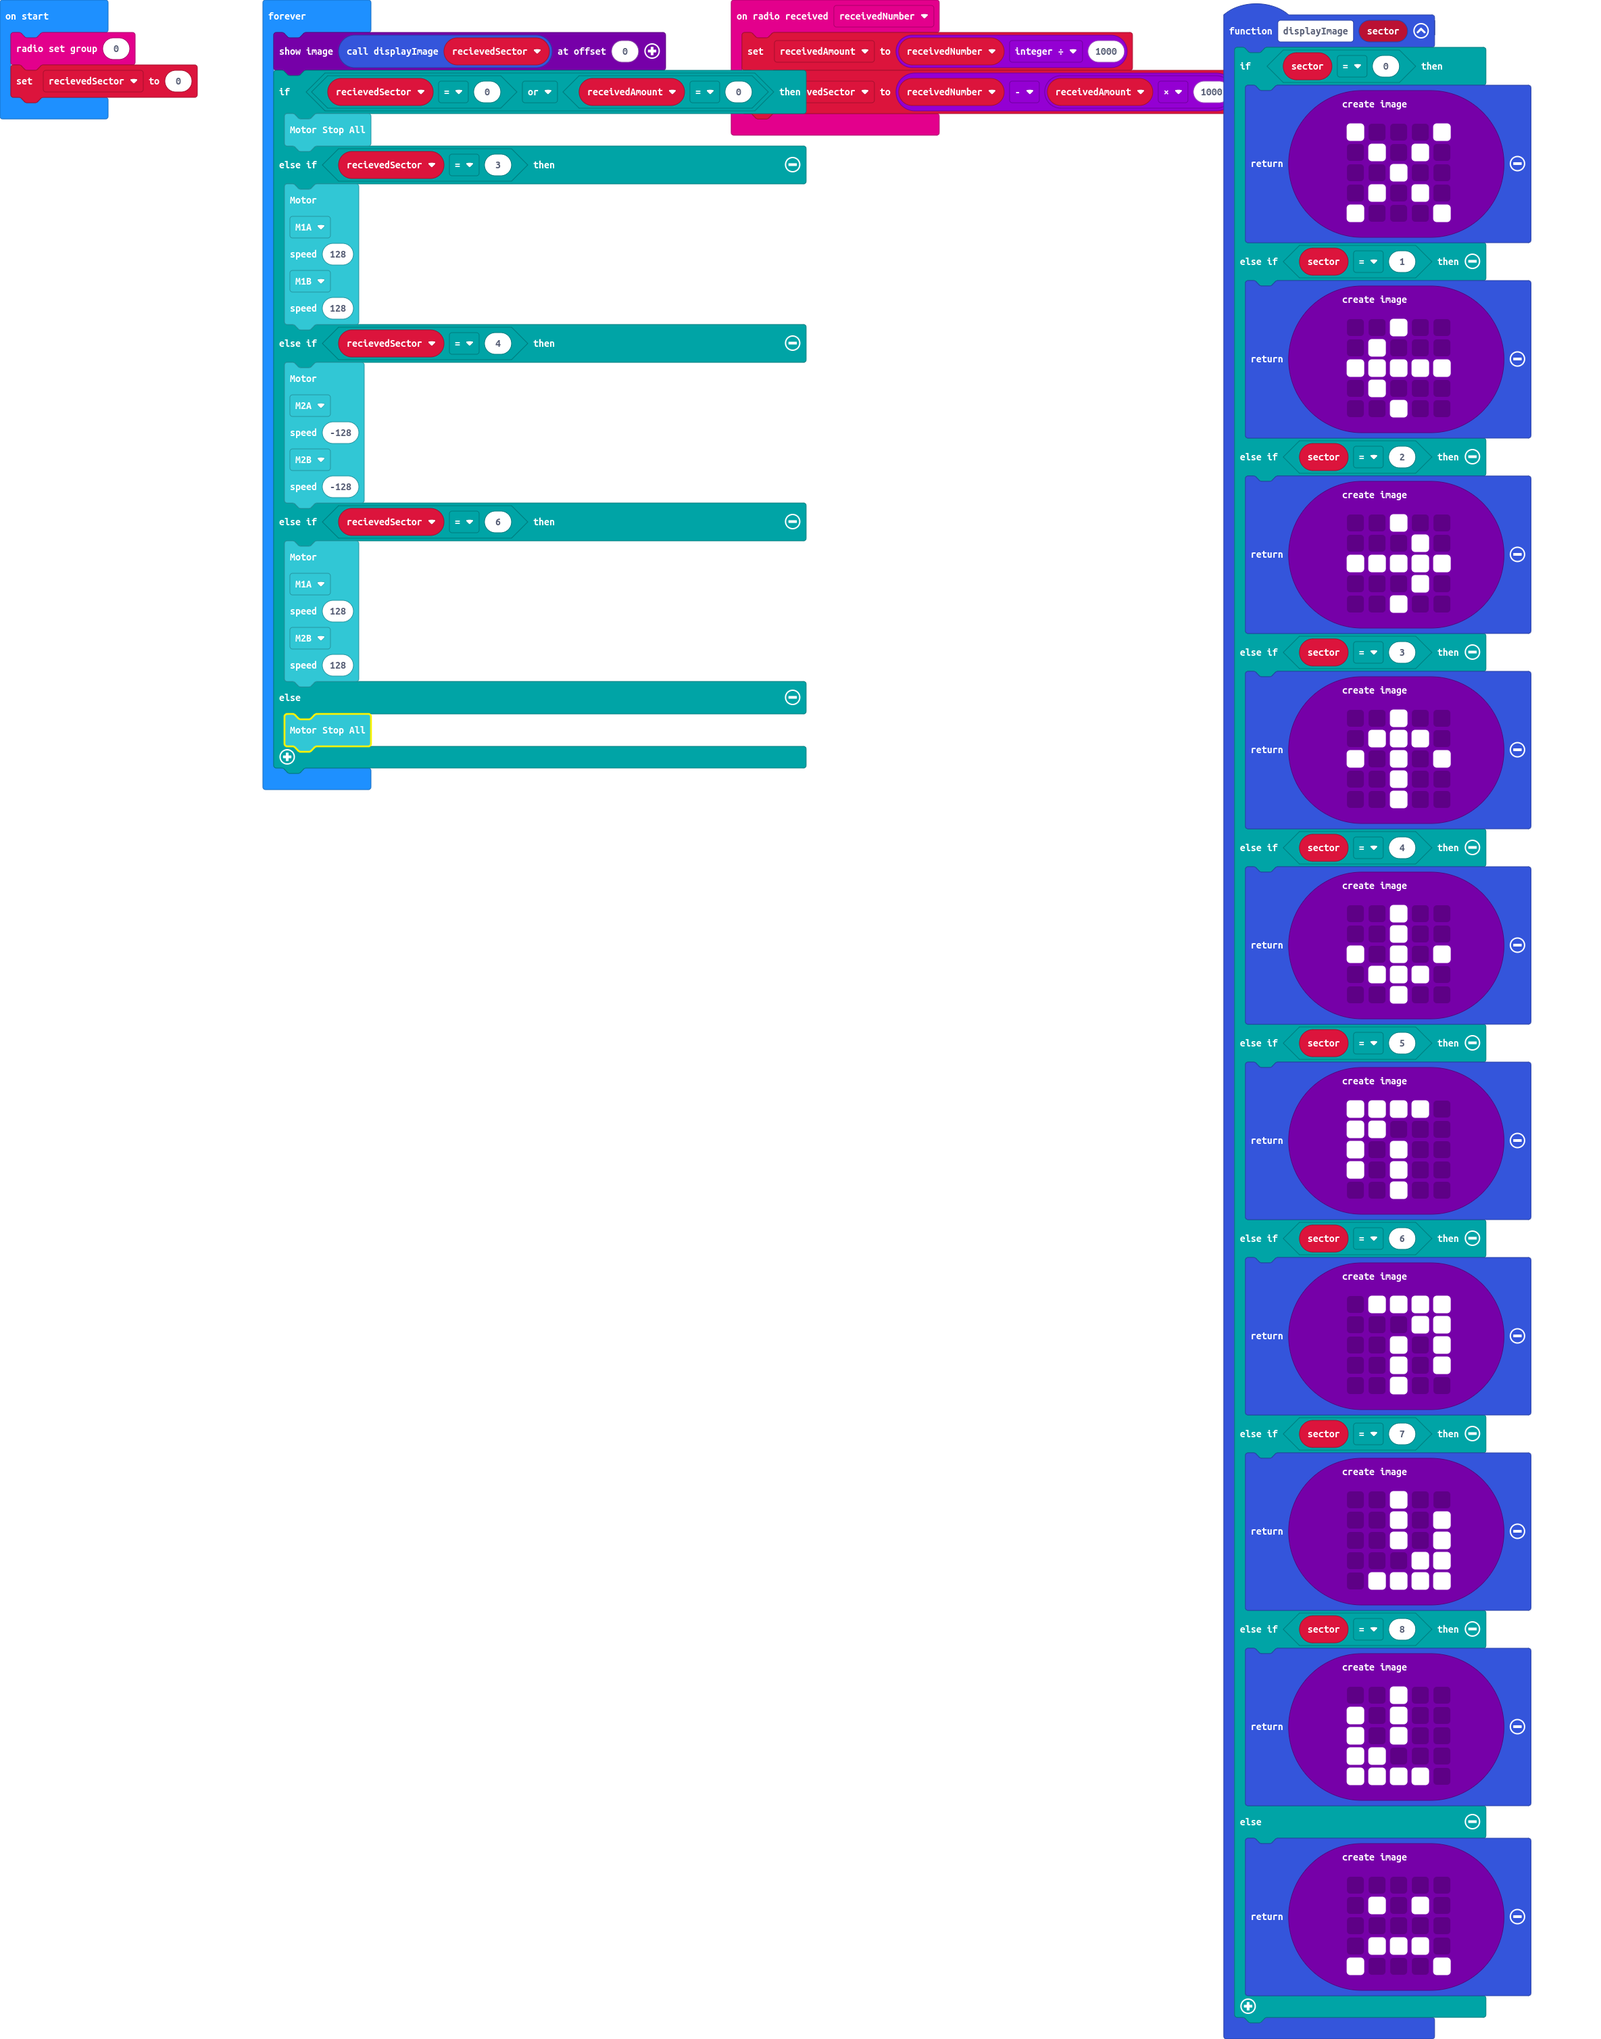
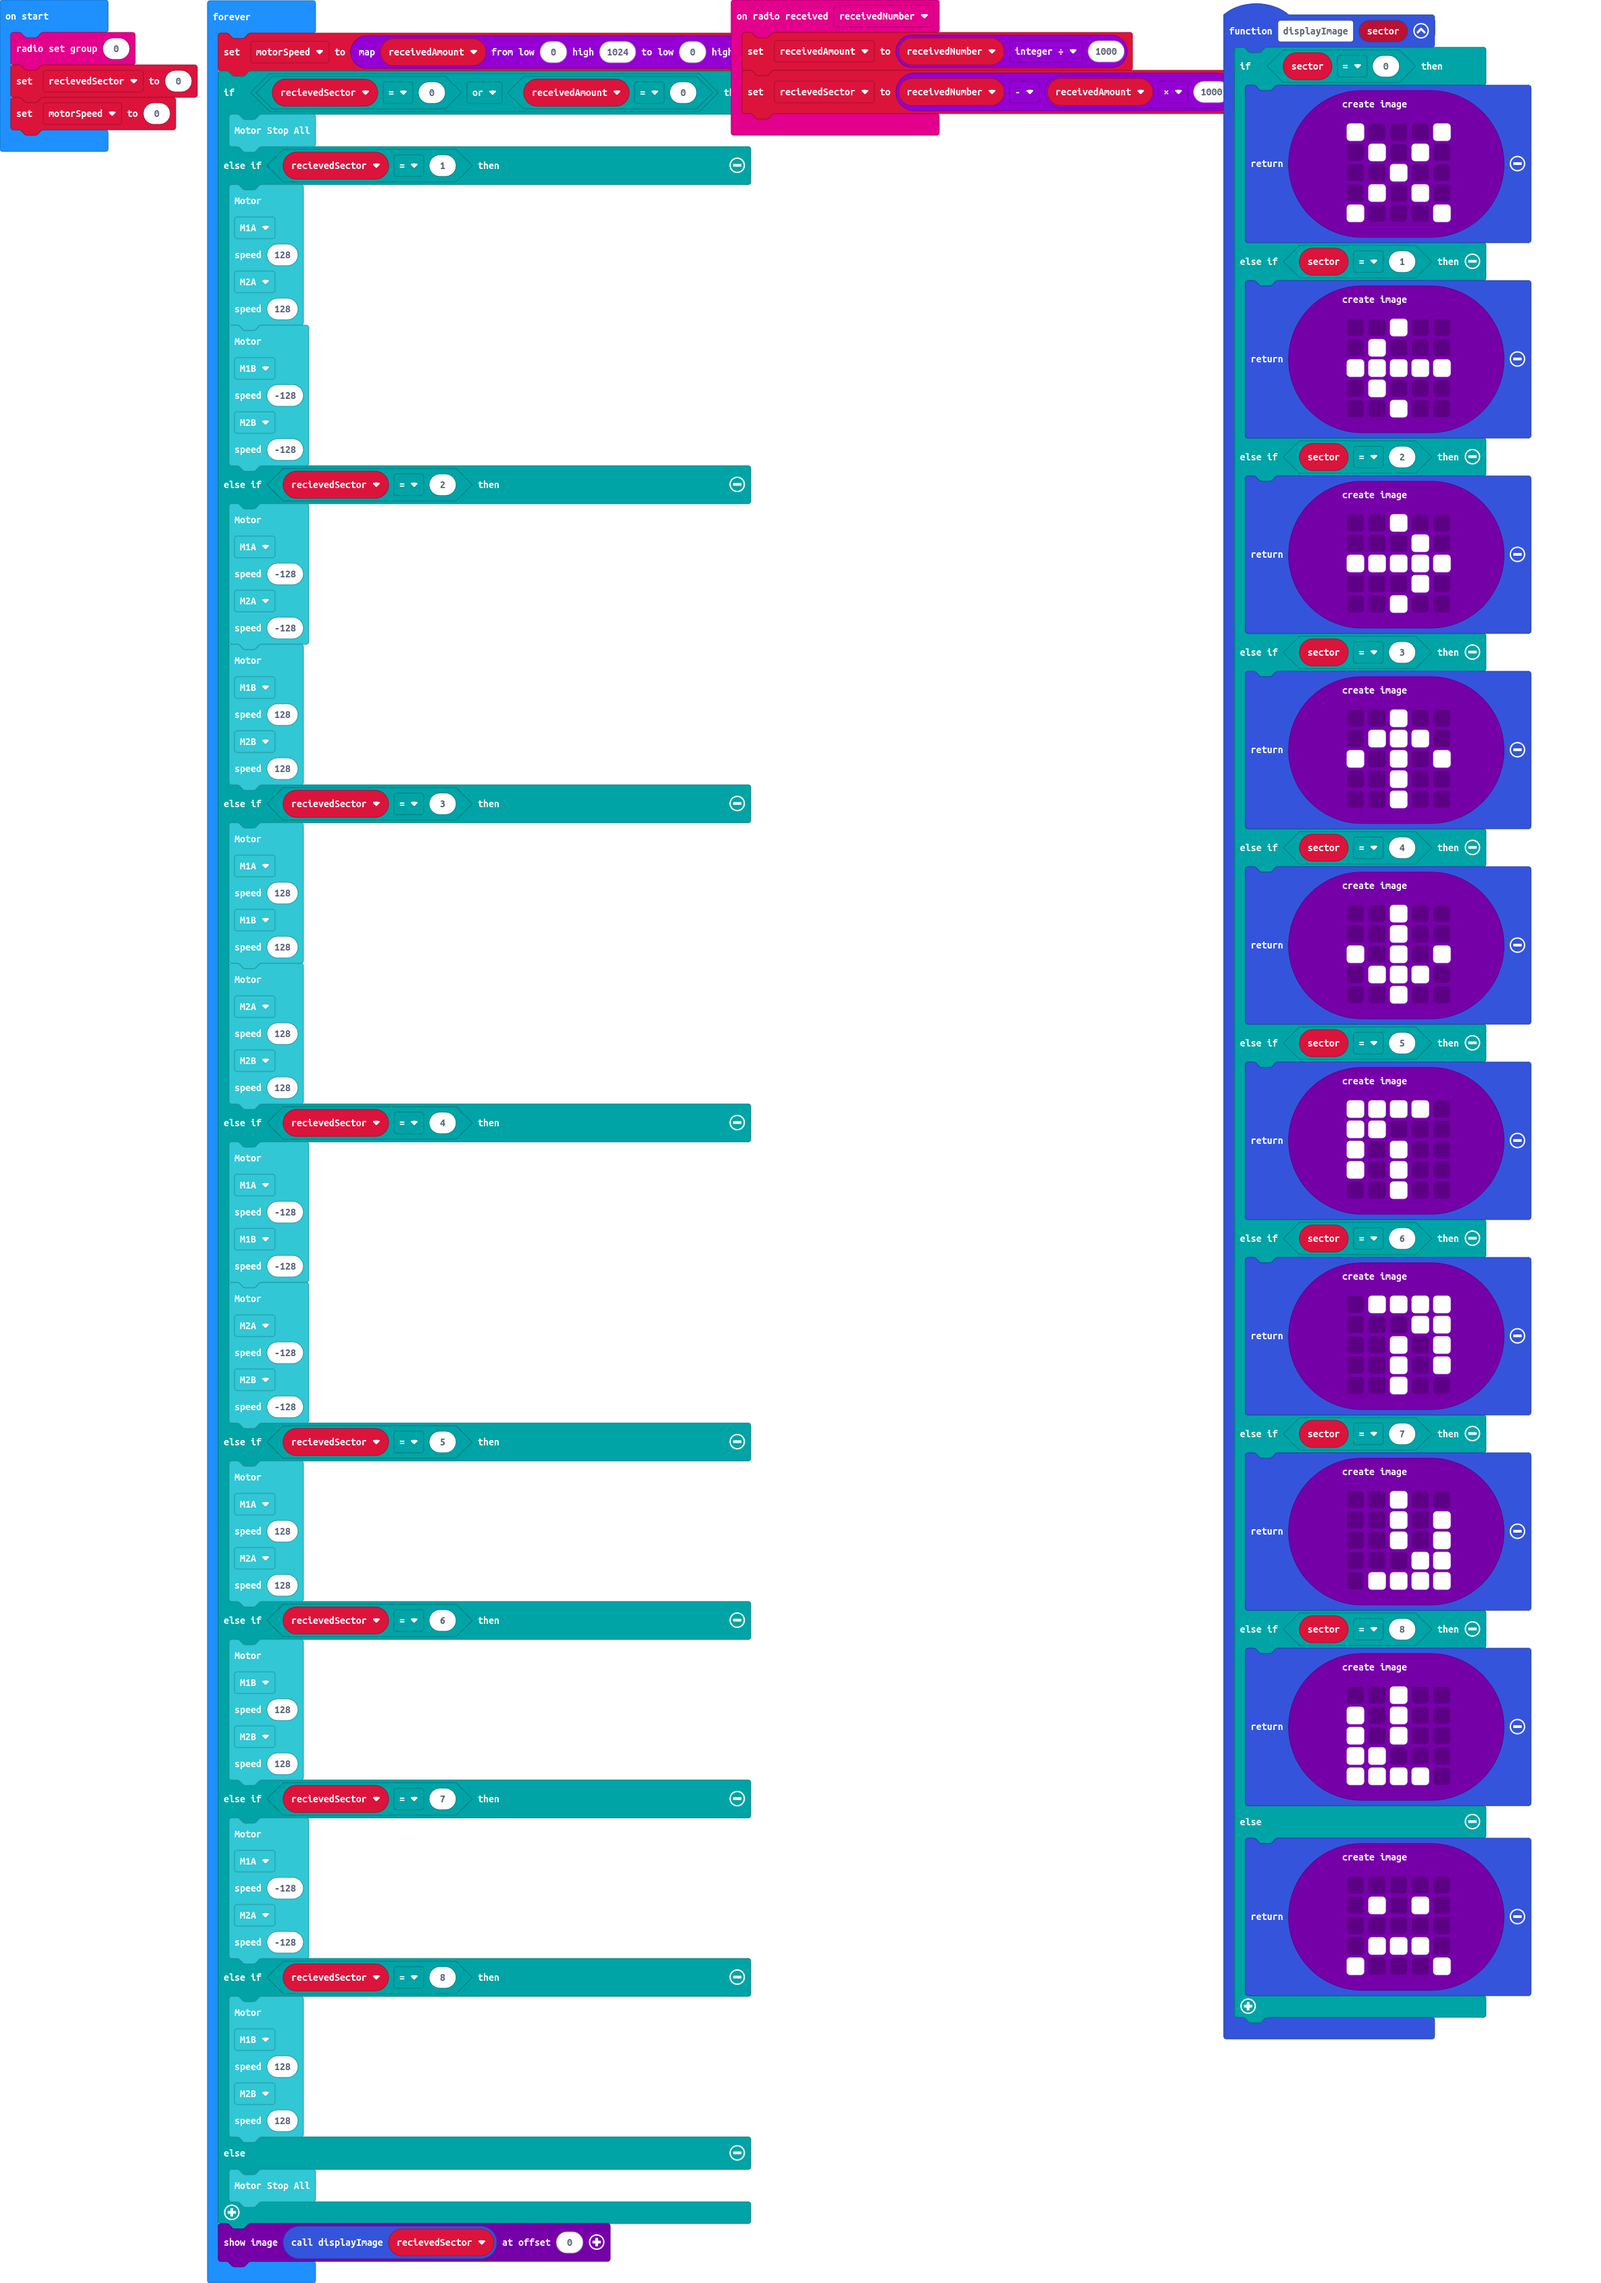
More motor control, flex speed

Changed region(s): [[0.0, 0.0, 0.9683, 1.0]]

diff --git a/main.ts b/main.ts
@@ -89,10 +89,37 @@ let receivedAmount = 0
 let recievedSector = 0
 radio.setGroup(0)
 recievedSector = 0
+let motorSpeed = 0
 basic.forever(function () {
-    displayImage(recievedSector).showImage(0)
+    motorSpeed = Math.map(receivedAmount, 0, 1024, 0, 4)
     if (recievedSector == 0 || receivedAmount == 0) {
         robotbit.MotorStopAll()
+    } else if (recievedSector == 1) {
+        robotbit.MotorRunDual(
+        robotbit.Motors.M1A,
+        128,
+        robotbit.Motors.M2A,
+        128
+        )
+        robotbit.MotorRunDual(
+        robotbit.Motors.M1B,
+        -128,
+        robotbit.Motors.M2B,
+        -128
+        )
+    } else if (recievedSector == 2) {
+        robotbit.MotorRunDual(
+        robotbit.Motors.M1A,
+        -128,
+        robotbit.Motors.M2A,
+        -128
+        )
+        robotbit.MotorRunDual(
+        robotbit.Motors.M1B,
+        128,
+        robotbit.Motors.M2B,
+        128
+        )
     } else if (recievedSector == 3) {
         robotbit.MotorRunDual(
         robotbit.Motors.M1A,
@@ -100,16 +127,49 @@ basic.forever(function () {
         robotbit.Motors.M1B,
         128
         )
+        robotbit.MotorRunDual(
+        robotbit.Motors.M2A,
+        128,
+        robotbit.Motors.M2B,
+        128
+        )
     } else if (recievedSector == 4) {
+        robotbit.MotorRunDual(
+        robotbit.Motors.M1A,
+        -128,
+        robotbit.Motors.M1B,
+        -128
+        )
         robotbit.MotorRunDual(
         robotbit.Motors.M2A,
         -128,
         robotbit.Motors.M2B,
         -128
         )
-    } else if (recievedSector == 6) {
+    } else if (recievedSector == 5) {
         robotbit.MotorRunDual(
         robotbit.Motors.M1A,
+        128,
+        robotbit.Motors.M2A,
+        128
+        )
+    } else if (recievedSector == 6) {
+        robotbit.MotorRunDual(
+        robotbit.Motors.M1B,
+        128,
+        robotbit.Motors.M2B,
+        128
+        )
+    } else if (recievedSector == 7) {
+        robotbit.MotorRunDual(
+        robotbit.Motors.M1A,
+        -128,
+        robotbit.Motors.M2A,
+        -128
+        )
+    } else if (recievedSector == 8) {
+        robotbit.MotorRunDual(
+        robotbit.Motors.M1B,
         128,
         robotbit.Motors.M2B,
         128
@@ -117,4 +177,5 @@ basic.forever(function () {
     } else {
         robotbit.MotorStopAll()
     }
+    displayImage(recievedSector).showImage(0)
 })
